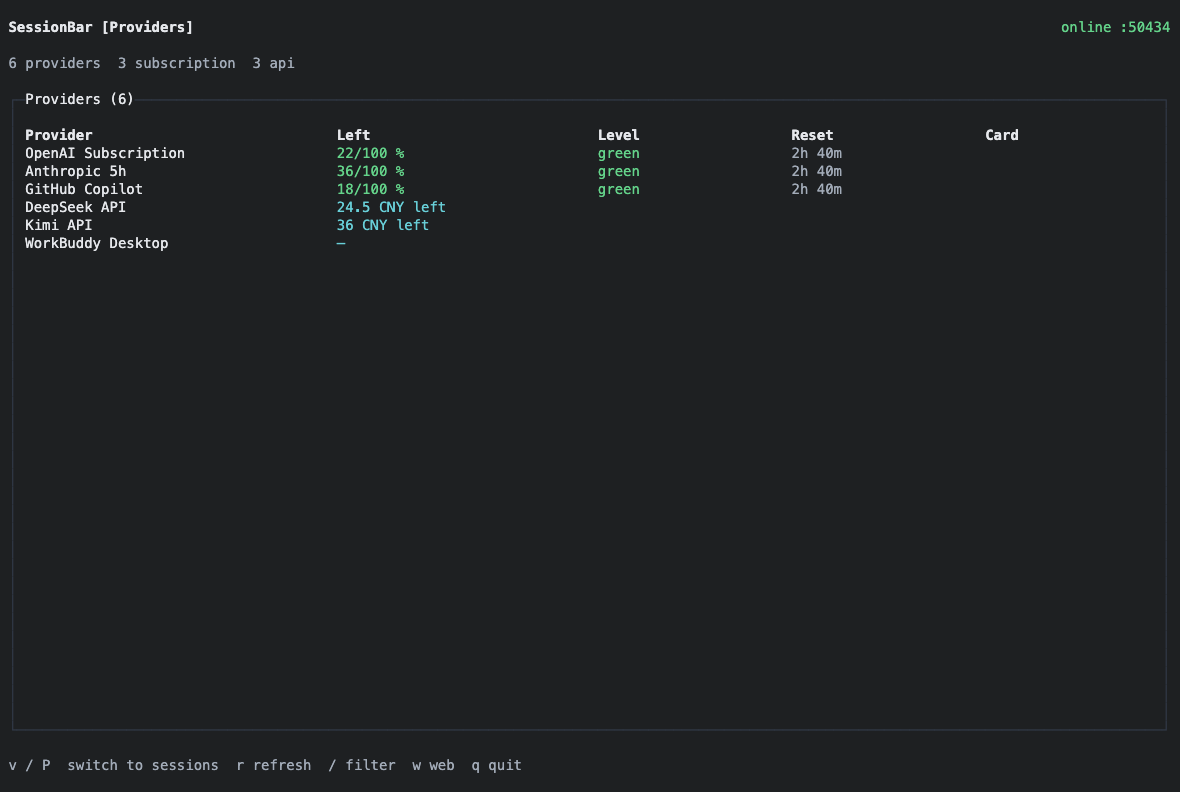
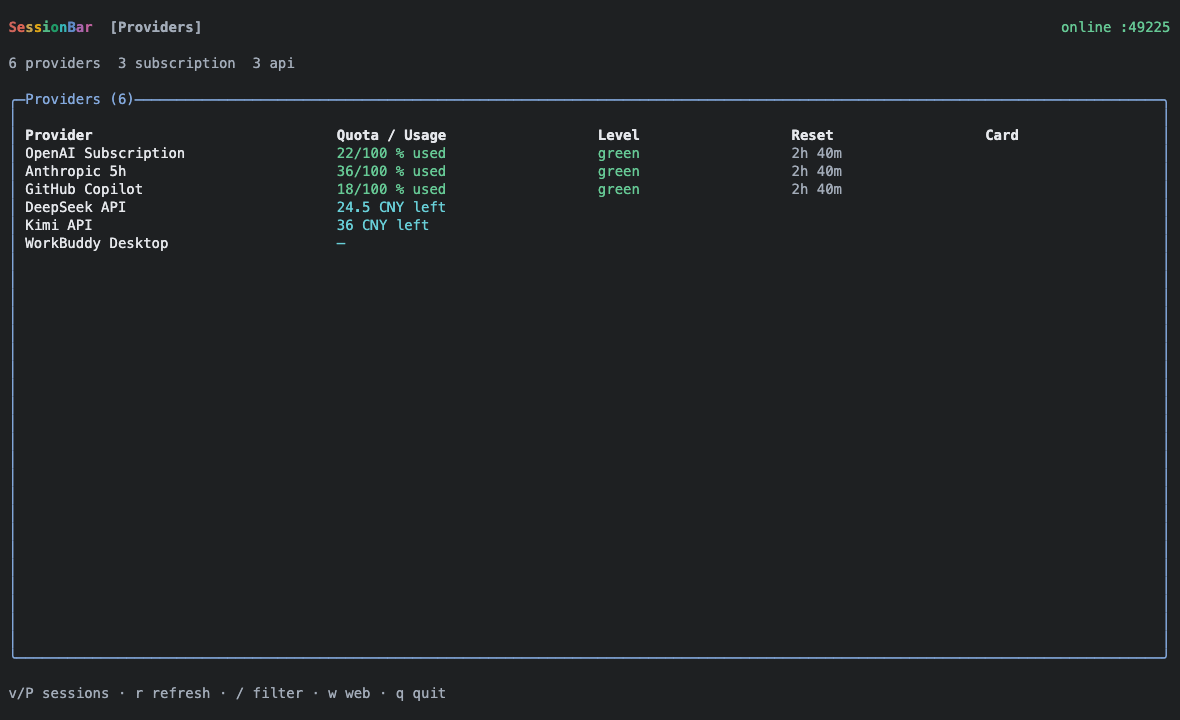
docs: prepare bilingual v1.0.0 release and current UI captures

diff --git a/README.md b/README.md
@@ -8,12 +8,14 @@
 
 ## What's New
 
-- **2026-10-07 · Fixed:** Three-pane TUI sizing, single-key setup with cancellation,
-  Provider last-good cache expiry and the polling-disable switch.
-- **2026-10-07 · Hardened:** Local browser request boundaries, private state writes,
-  and compatible dependency updates.
-- **2026-10-07 · Updated:** English and Chinese documentation, privacy-safe
-  screenshots and the SVG wordmark.
+- **2026-10-26 · v1.0.0:** Unified the Web and terminal UI around the rainbow
+  wordmark and cool gray-blue theme; refreshed all five privacy-safe screenshots.
+- **2026-10-26 · Fixed:** Persistent Web disconnect feedback, long titles,
+  narrow-terminal navigation and scrollable details; clarified used quota values.
+- **2026-10-26 · Hardened:** Removed ambiguous legacy Claude hooks and updated
+  compatible dependencies to fix the body-parser compressed-request DoS advisory.
+- **2026-10-07 · Fixed:** Three-pane sizing, cancellable setup, Provider cache
+  expiry and local browser request boundaries.
 - **2026-09-01 · Fixed:** Workflow events stay display-only rather than overriding
   explicit session data.
 
@@ -55,7 +57,7 @@ of treating the project as a single agent process.
   </tr>
 </table>
 
-> Captured from this release's actual UI on 2026-10-07, using isolated synthetic
+> Captured from this release's actual UI on 2026-10-26, using isolated synthetic
 > projects, sessions, system readings, and provider values. No real account data,
 > credentials, or personal paths are included. Missing fields stay unavailable;
 > actual data coverage depends on the harness and provider adapter.
@@ -78,6 +80,22 @@ Requirements: **Node.js 22+, npm and Bun**. Node runs the CLI, landing screen an
 relay; Bun is required for OpenTUI's native FFI monitor. macOS is the primary
 tested platform. Linux support is partial, with some discovery, credential and
 temperature adapters limited to macOS. Windows parity is not claimed.
+
+### Release Package
+
+Download `sessionbar-1.0.0.tgz` and `SHA256SUMS` from
+[GitHub Releases](https://github.com/Guojiacheng2017/SessionBar/releases/latest).
+From the download directory:
+
+```sh
+shasum -a 256 -c SHA256SUMS
+npm install --global ./sessionbar-1.0.0.tgz
+sessionbar
+```
+
+This is a GitHub release archive, not an npm registry publication.
+
+### From Source
 
 ```sh
 git clone https://github.com/Guojiacheng2017/SessionBar.git sessionbar
@@ -112,6 +130,7 @@ Tab, brackets or `1`–`5` switch detail tabs; `a` or Backspace returns to all
 projects; `v` switches Providers; `r` refreshes, `/` filters, `w` opens Web
 and `q` exits. Without a focused project, all sessions are shown. In Web, click
 projects and sessions; scroll down for Providers.
+Use `PageUp`, `PageDown`, `Home` and `End` to reach all detail content in small terminals.
 
 Exiting TUI does not close browser tabs or stop the background relay. Use
 `sessionbar stop` explicitly. Ordinary refreshes do not reassign its port.

diff --git a/README.zh-CN.md b/README.zh-CN.md
@@ -8,9 +8,10 @@
 
 ## 最新动态
 
-- **2026-10-07 · 修复：** 三栏 TUI 排版、Setup 单键选择与取消、Provider 缓存过期及禁用轮询。
-- **2026-10-07 · 加固：** 本地浏览器请求边界、私有状态写入及兼容版本依赖更新。
-- **2026-10-07 · 更新：** 双语文档、脱敏截图和 SVG 字标。
+- **2026-10-26 · v1.0.0：** Web 与终端沿用彩虹字标和冷灰蓝主题，更新全部五张脱敏截图。
+- **2026-10-26 · 修复：** Web 断线提示、长标题、窄终端导航与详情滚动；明确标注已用配额。
+- **2026-10-26 · 加固：** 清理身份不明确的旧 Claude Hook，更新兼容依赖以修复 body-parser 压缩请求 DoS 漏洞。
+- **2026-10-07 · 修复：** 三栏排版、可取消 Setup、Provider 缓存过期与本地浏览器请求边界。
 - **2026-09-01 · 修复：** Workflow 事件仅展示，不覆盖明确的 Session 数据。
 
 > [!IMPORTANT]
@@ -50,7 +51,7 @@ Agent 进程。
   </tr>
 </table>
 
-> 截图于 2026-10-07 根据本次发布的实际 UI 生成，使用隔离的模拟项目、会话、系统指标和
+> 截图于 2026-10-26 根据本次发布的实际 UI 生成，使用隔离的模拟项目、会话、系统指标和
 > Provider 数值，不包含真实账户数据、凭据或个人路径。缺失字段仍显示为不可用；
 > 实际数据覆盖范围取决于 Harness 和 Provider Adapter。
 
@@ -70,6 +71,21 @@ Agent 进程。
 需要 **Node.js 22+、npm 和 Bun**。Node 运行 CLI、Landing 和 Relay；OpenTUI
 Monitor 需要 Bun 原生 FFI。macOS 是主要测试平台；Linux 部分支持，部分桌面发现、
 凭据和温度 Adapter 仅支持 macOS。当前不承诺 Windows 功能对等。
+
+### 安装发布包
+
+从 [GitHub Releases](https://github.com/Guojiacheng2017/SessionBar/releases/latest)
+下载 `sessionbar-1.0.0.tgz` 和 `SHA256SUMS`，在下载目录运行：
+
+```sh
+shasum -a 256 -c SHA256SUMS
+npm install --global ./sessionbar-1.0.0.tgz
+sessionbar
+```
+
+这是 GitHub 发布包，不代表已发布到 npm Registry。
+
+### 从源码安装
 
 ```sh
 git clone https://github.com/Guojiacheng2017/SessionBar.git sessionbar
@@ -102,6 +118,7 @@ Monitor 中先上下选择项目并 Enter，再上下选择其中的 Session。
 Tab、方括号或 `1`–`5` 切换详情，`a` 或 Backspace 返回全部项目，
 `v` 切换 Providers、`r` 刷新、`/` 过滤、`w` 打开网页、`q` 退出。
 未聚焦项目时显示全部 Session。Web 中点击项目和会话，向下滚动进入 Providers。
+详情支持 `PageUp`、`PageDown`、`Home`、`End`，窄终端也可访问底部内容。
 
 退出 TUI 不会关闭浏览器标签或停止后台 Relay；执行 `sessionbar stop` 显式停止。
 正常刷新不会重新分配运行中 Relay 的端口。

diff --git a/scripts/docs/README.md b/scripts/docs/README.md
@@ -25,6 +25,10 @@ Use the loopback URL printed by the preview server / 打开预览服务输出的
 - `/__preview/terminal?view=monitor`: real Monitor; select a project with Enter,
   select Activity with `2`, switch Providers with `v` / 真实 Monitor；Enter 打开项目，
   `2` 选择 Activity，`v` 切换 Providers。
+- Add `&cols=80&rows=24` to a terminal preview URL to check a compact viewport.
+  Each view/size gets its own PTY, so narrow and wide previews can be checked
+  independently. Supported dimensions: 40–240 columns, 16–80 rows.
+  终端预览 URL 可加 `&cols=80&rows=24`；不同视图和尺寸使用独立 PTY。
 
 Click the terminal before using its keyboard controls. Capture the terminal
 element or the Web viewport using Playwright. Store the five PNGs in
@@ -40,10 +44,11 @@ The preview's dynamically assigned port is not the production relay port.
 
 The README wordmark uses outlined Lobster Two Bold Italic with the landing
 screen's rainbow palette. It is transparent and contains no embedded font,
-scripts, or external resources. The application's ASCII logo is unchanged.
+scripts, or external resources. The terminal uses a compact wordmark with the
+same ten color stops.
 
 README 字标使用 Lobster Two Bold Italic 的文字轮廓，沿用首页的彩虹配色。
-背景透明，不内嵌字体、脚本或外部资源；应用内 ASCII 标题保持不变。
+背景透明，不内嵌字体、脚本或外部资源；终端使用相同十个色阶的紧凑字标。
 
 Font source / 字体来源：[Google Fonts](https://github.com/google/fonts/tree/main/ofl/lobstertwo),
 Pablo Impallari and Igino Marini; SIL Open Font License 1.1.
